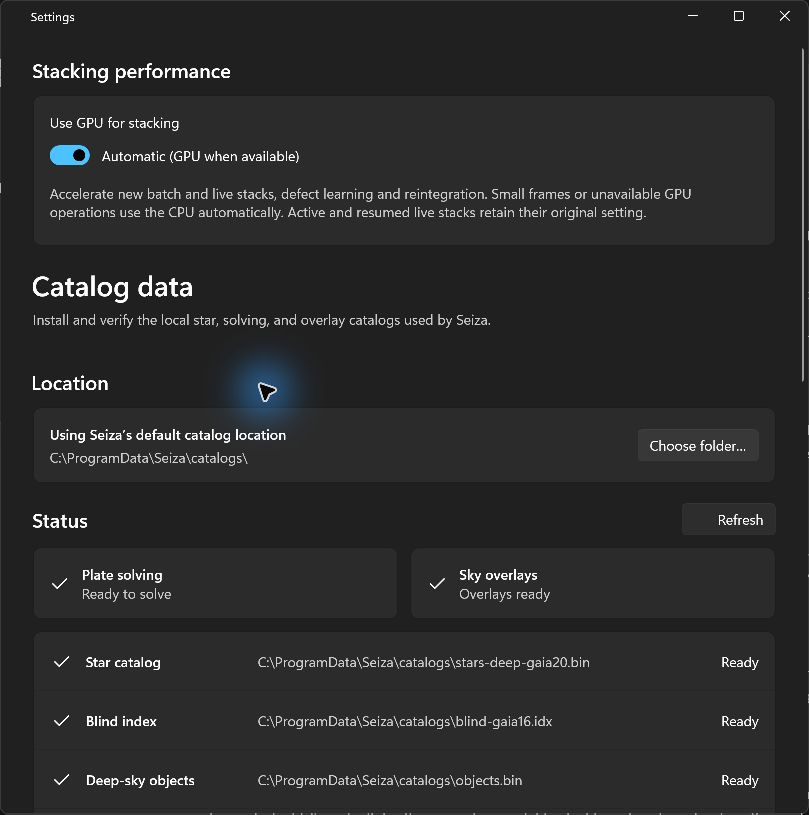
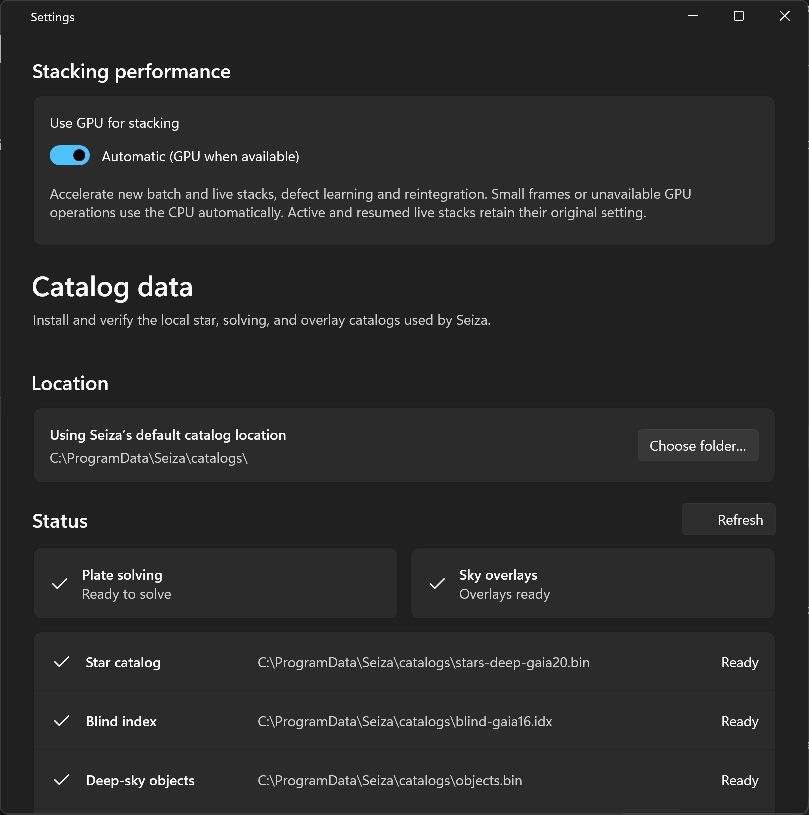
Document mosaic selection and GPU settings with native screenshots

Changed region(s): [[0.9889, 0.0613, 1.0, 0.4601], [0.2781, 0.4294, 0.3708, 0.5215]]

diff --git a/README.md b/README.md
@@ -147,6 +147,18 @@ frames and unavailable GPU operations fall back to the CPU. Active and resumed
 live stacks keep their original mode; the preference is remembered across app
 restarts. GPU and CPU floating-point results need not be byte-identical.
 
+| Solve and group input lights | Review panels and individual exposures |
+| --- | --- |
+| ![Native Windows stacking dialog with automatic coordinate grouping enabled and the Solve and group selected lights button](docs/images/mosaic-stacking/readme-panel-setup.png) | ![Solved mosaic panels with whole-panel checkboxes, individual light selection and an output summary](docs/images/mosaic-stacking/readme-panel-selection.png) |
+
+| Expanded canvas controls | Persistent GPU preference |
+| --- | --- |
+| ![Expanded mosaic canvas selection and memory ceiling in the native Windows stacking dialog](docs/images/mosaic-stacking/readme-canvas.png) | ![Native Windows Settings showing automatic GPU acceleration for stacking](docs/images/stacking-gpu-settings.png) |
+
+These are native UI captures from the development build. The panel examples use
+crops and repeated copies of an M31 image to demonstrate selection, not
+independently captured mosaic exposures. No original exposures were modified.
+
 ## Seiza for Windows 0.8.5: multi-filter sessions, flat review and color stacking
 
 - Watch one parent **LIGHT** folder and run independent filter stacks as captures
